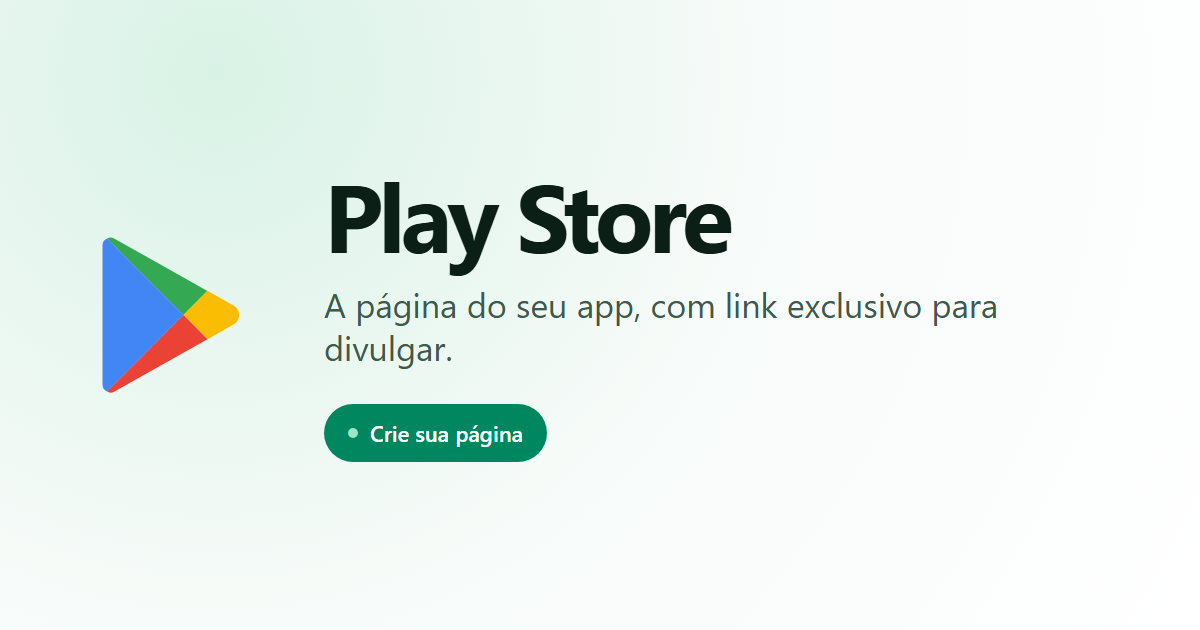
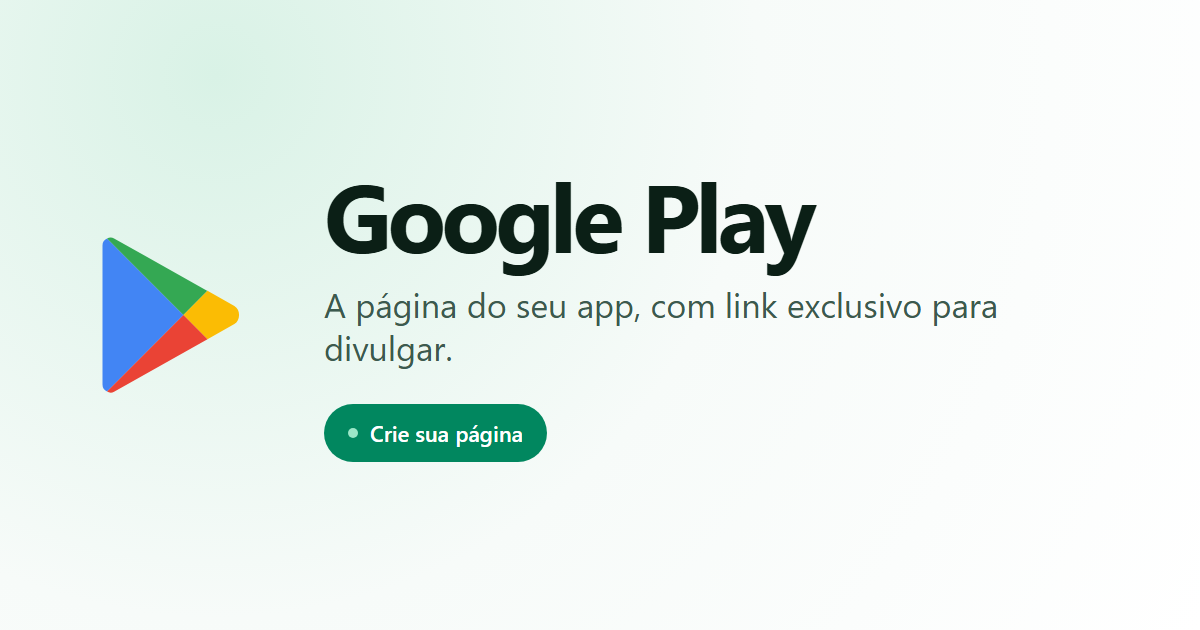
feat: google play com avaliacao padrao 4.6 e 8 comentarios

Changed region(s): [[0.2467, 0.2714, 0.6783, 0.4524]]

diff --git a/src/routes/_store/$slug.tsx b/src/routes/_store/$slug.tsx
@@ -4,6 +4,7 @@ import { AppIcon } from '@/components/store/app-icon'
 import { DeviceNote, InstallButton } from '@/components/store/app-actions'
 import { Stars } from '@/components/store/stars'
 import { getAppDetail } from '@/lib/apps.functions'
+import { getDefaultReviews } from '@/lib/default-reviews'
 import { DEFAULT_OG_IMAGE, SITE_NAME, SITE_URL, ogImageFor } from '@/lib/seo'
 import type { AppDetail } from '@/lib/types'
 import { cn, formatCount } from '@/lib/utils'
@@ -117,10 +118,8 @@ function ratingLabel(value: number) {
 
 function AppDetailPage() {
   const app: AppDetail = Route.useLoaderData()
-  const { user } = Route.useRouteContext()
-  const isOwner = Boolean(user && app.submittedBy === user.id)
-  const isPending = app.status !== 'published'
-  const totalReviews = app.reviewCount || app.reviews.length
+  const reviews = app.reviews.length > 0 ? app.reviews : getDefaultReviews()
+  const totalReviews = app.reviewCount || reviews.length
   const counts = [1, 2, 3, 4, 5].map(
     (star) => app.distribution[star as 1 | 2 | 3 | 4 | 5] ?? 0,
   )
@@ -160,14 +159,6 @@ function AppDetailPage() {
           </p>
         </div>
       </header>
-
-      {isOwner ? (
-        <p className="mt-4 text-xs text-muted-foreground">
-          {isPending
-            ? 'Sua página está em análise.'
-            : 'Sua página está publicada.'}
-        </p>
-      ) : null}
 
       <div className="mt-5 grid grid-cols-3 divide-x divide-border border-y border-border">
         <div className="flex flex-col items-center justify-center px-2 py-4 text-center">
@@ -242,9 +233,9 @@ function AppDetailPage() {
           </div>
         </div>
 
-        {app.reviews.length > 0 ? (
+        {reviews.length > 0 ? (
           <div className="mt-4 divide-y divide-border border-t border-border">
-            {app.reviews.map((review) => (
+            {reviews.map((review) => (
               <div key={review.id} className="py-5">
                 <div className="flex items-center gap-3">
                   <span
@@ -289,11 +280,7 @@ function AppDetailPage() {
               </div>
             ))}
           </div>
-        ) : (
-          <p className="mt-6 text-sm text-muted-foreground">
-            Ainda não há avaliações.
-          </p>
-        )}
+        ) : null}
       </section>
 
       <section className="mt-6 border-t border-border pt-6">

diff --git a/src/lib/apps.functions.ts b/src/lib/apps.functions.ts
@@ -108,6 +108,18 @@ function normalizeDownloads(value: number | null | undefined) {
   return Math.max(0, Math.floor(Number(value)))
 }
 
+function normalizeRating(value: number | null | undefined) {
+  const rating = Number(value)
+  if (!Number.isFinite(rating)) return 4.6
+  return Math.round(Math.min(5, Math.max(0, rating)) * 10) / 10
+}
+
+function normalizeReviewCount(value: number | null | undefined) {
+  const count = Number(value)
+  if (!Number.isFinite(count)) return 100000
+  return Math.max(0, Math.floor(count))
+}
+
 function slugify(value: string) {
   return (
     value
@@ -254,6 +266,22 @@ export const getAppDetail = createServerFn({ method: 'GET' })
       distribution[key] += 1
     }
 
+    if (reviewRows.length === 0 && row.reviewCount > 0) {
+      const total = row.reviewCount
+      distribution[5] = Math.round(total * 0.82)
+      distribution[4] = Math.round(total * 0.12)
+      distribution[3] = Math.round(total * 0.04)
+      distribution[2] = Math.round(total * 0.015)
+      distribution[1] = Math.max(
+        0,
+        total -
+          distribution[5] -
+          distribution[4] -
+          distribution[3] -
+          distribution[2],
+      )
+    }
+
     return {
       ...toCatalogApp(row),
       description: row.description,
@@ -349,6 +377,8 @@ export const submitApp = createServerFn({ method: 'POST' })
       fileName: normalizeText(data.fileName),
       fileSize: data.fileSize,
       downloads: normalizeDownloads(data.downloads),
+      rating: 4.6,
+      reviewCount: 100000,
       status: 'published',
       submittedBy: session.user.id,
     })
@@ -577,6 +607,8 @@ async function persistApp(
     fileName: normalizeText(data.fileName),
     fileSize: data.fileSize,
     downloads: normalizeDownloads(data.downloads),
+    rating: normalizeRating(data.rating),
+    reviewCount: normalizeReviewCount(data.reviewCount),
     status: data.status ?? 'published',
     featured: data.featured ?? false,
   }

diff --git a/src/lib/demo-data.ts b/src/lib/demo-data.ts
@@ -265,25 +265,25 @@ export function getDemoAppBySlug(slug: string): AppDetail | null {
   if (!app) return null
 
   const reviews = demoReviews[slug] ?? []
+  const reviewCount = 100000
   const distribution = { 1: 0, 2: 0, 3: 0, 4: 0, 5: 0 }
-  if (reviews.length > 0) {
-    const reviewCount = app.reviewCount || reviews.length
-    distribution[5] = Math.round(reviewCount * 0.82)
-    distribution[4] = Math.round(reviewCount * 0.12)
-    distribution[3] = Math.round(reviewCount * 0.04)
-    distribution[2] = Math.round(reviewCount * 0.015)
-    distribution[1] = Math.max(
-      0,
-      reviewCount -
-        distribution[5] -
-        distribution[4] -
-        distribution[3] -
-        distribution[2],
-    )
-  }
+  distribution[5] = Math.round(reviewCount * 0.82)
+  distribution[4] = Math.round(reviewCount * 0.12)
+  distribution[3] = Math.round(reviewCount * 0.04)
+  distribution[2] = Math.round(reviewCount * 0.015)
+  distribution[1] = Math.max(
+    0,
+    reviewCount -
+      distribution[5] -
+      distribution[4] -
+      distribution[3] -
+      distribution[2],
+  )
 
   return {
     ...app,
+    rating: 4.6,
+    reviewCount: 100000,
     status:
       getDemoAdminApps().find((item) => item.id === app.id)?.status ??
       app.status,
@@ -305,6 +305,8 @@ export function getDemoAppBySlug(slug: string): AppDetail | null {
 export function getDemoAdminApps(): AdminApp[] {
   return demoApps.map((app) => ({
     ...app,
+    rating: 4.6,
+    reviewCount: 100000,
     status: 'published',
     description: demoDescriptions[app.slug] ?? app.tagline,
     version: '4.3',
@@ -330,7 +332,7 @@ export const demoUsers: UserRow[] = [
   {
     id: 'demo-admin',
     name: 'Administrador Demo',
-    email: 'admin@demo.playstore',
+    email: 'admin@demo.googleplay',
     role: 'admin',
     banned: false,
     createdAt: '2026-09-01T12:00:00.000Z',

diff --git a/src/lib/default-reviews.ts b/src/lib/default-reviews.ts
@@ -1,0 +1,76 @@
+import type { ReviewItem } from './types'
+
+const day = 24 * 60 * 60 * 1000
+
+const templates = [
+  {
+    name: 'Ana Souza',
+    rating: 5,
+    comment: 'Muito bom! Interface simples e rápida. Recomendo.',
+    helpful: 42,
+    daysAgo: 3,
+  },
+  {
+    name: 'Bruno Martins',
+    rating: 5,
+    comment: 'Funciona perfeitamente no meu celular. Não travou até agora.',
+    helpful: 128,
+    daysAgo: 5,
+  },
+  {
+    name: 'Carla Mendes',
+    rating: 5,
+    comment: 'Ótimo app, atendeu exatamente o que eu precisava.',
+    helpful: 87,
+    daysAgo: 8,
+  },
+  {
+    name: 'Diego Alves',
+    rating: 4,
+    comment:
+      'Boa experiência no geral. Poderia ter mais opções, mas cumpre o que promete.',
+    helpful: 19,
+    daysAgo: 11,
+  },
+  {
+    name: 'Elisa Rocha',
+    rating: 5,
+    comment: 'Gostei bastante, fácil de usar e sem anúncios chatos.',
+    helpful: 64,
+    daysAgo: 14,
+  },
+  {
+    name: 'Felipe Costa',
+    rating: 4,
+    comment: 'Excelente! Já uso todos os dias.',
+    helpful: 33,
+    daysAgo: 18,
+  },
+  {
+    name: 'Gabriela Nunes',
+    rating: 5,
+    comment: 'App leve e bem organizado. Parabéns aos desenvolvedores.',
+    helpful: 51,
+    daysAgo: 23,
+  },
+  {
+    name: 'Henrique Lima',
+    rating: 4,
+    comment: 'Muito útil, salvou meu dia. Recomendo a todos.',
+    helpful: 21,
+    daysAgo: 29,
+  },
+]
+
+export function getDefaultReviews(): ReviewItem[] {
+  const now = Date.now()
+  return templates.map((template, index) => ({
+    id: `default-review-${index + 1}`,
+    rating: template.rating,
+    comment: template.comment,
+    createdAt: new Date(now - template.daysAgo * day).toISOString(),
+    helpfulCount: template.helpful,
+    userName: template.name,
+    userImage: null,
+  }))
+}

diff --git a/src/components/app-form.tsx b/src/components/app-form.tsx
@@ -58,6 +58,8 @@ function emptyForm(developer = ''): AppInput {
     fileName: '',
     fileSize: null,
     downloads: 0,
+    rating: 4.6,
+    reviewCount: 100000,
   }
 }
 
@@ -93,6 +95,8 @@ export function AppForm({
           fileName: initial.fileName ?? '',
           fileSize: initial.fileSize,
           downloads: initial.downloads,
+          rating: initial.rating,
+          reviewCount: initial.reviewCount,
         }
       : emptyForm(defaultDeveloper),
   )
@@ -482,6 +486,37 @@ export function AppForm({
                   ))}
                 </SelectContent>
               </Select>
+            </Field>
+            <Field label="Nota (0 a 5)">
+              <Input
+                type="number"
+                min={0}
+                max={5}
+                step={0.1}
+                inputMode="decimal"
+                value={form.rating}
+                onChange={(event) =>
+                  update(
+                    'rating',
+                    Math.min(5, Math.max(0, Number(event.target.value) || 0)),
+                  )
+                }
+              />
+            </Field>
+            <Field label="Avaliações">
+              <Input
+                type="number"
+                min={0}
+                step={1}
+                inputMode="numeric"
+                value={form.reviewCount}
+                onChange={(event) =>
+                  update(
+                    'reviewCount',
+                    Math.max(0, Math.floor(Number(event.target.value) || 0)),
+                  )
+                }
+              />
             </Field>
             <label className="flex items-center justify-between gap-3 self-end rounded-xl border border-border px-3 py-2.5">
               <span>

diff --git a/src/routes/__root.tsx b/src/routes/__root.tsx
@@ -19,7 +19,7 @@ export const Route = createRootRoute({
           'width=device-width, initial-scale=1, viewport-fit=cover, maximum-scale=5',
       },
       {
-        title: 'Play Store — a página do seu app',
+        title: 'Google Play — a página do seu app',
       },
       {
         name: 'description',
@@ -37,7 +37,10 @@ export const Route = createRootRoute({
       { property: 'og:site_name', content: SITE_NAME },
       { property: 'og:locale', content: 'pt_BR' },
       { property: 'og:image', content: DEFAULT_OG_IMAGE },
-      { property: 'og:image:alt', content: 'Play Store — a página do seu app' },
+      {
+        property: 'og:image:alt',
+        content: 'Google Play — a página do seu app',
+      },
       { name: 'twitter:card', content: 'summary_large_image' },
       { name: 'twitter:title', content: SITE_NAME },
       {

diff --git a/src/components/brand-logo.tsx b/src/components/brand-logo.tsx
@@ -41,12 +41,12 @@ export function BrandLogo({
     <Link
       to="/"
       className={cn('flex items-center gap-2', className)}
-      aria-label="Play Store — página inicial"
+      aria-label="Google Play — página inicial"
     >
       <PlayLogo />
       {showName ? (
         <span className="text-[21px] font-medium tracking-tight text-foreground/80">
-          Play Store
+          Google Play
         </span>
       ) : null}
     </Link>

diff --git a/scripts/seed.ts b/scripts/seed.ts
@@ -149,8 +149,8 @@ async function main() {
         iconUrl: null,
         bannerUrl: null,
         screenshots: [],
-        rating: app.rating,
-        reviewCount: app.reviewCount,
+        rating: 4.6,
+        reviewCount: 100000,
         downloads: app.downloads,
         featured: app.featured,
         status: 'published',

diff --git a/src/routes/admin.tsx b/src/routes/admin.tsx
@@ -16,7 +16,7 @@ export const Route = createFileRoute('/admin')({
   },
   head: () => ({
     meta: [
-      { title: 'Acesso administrativo — Play Store' },
+      { title: 'Acesso administrativo — Google Play' },
       { name: 'robots', content: 'noindex, nofollow' },
     ],
   }),

diff --git a/src/lib/auth.functions.ts b/src/lib/auth.functions.ts
@@ -21,7 +21,7 @@ export const demoSession = {
   user: {
     id: 'demo-admin',
     name: 'Administrador Demo',
-    email: 'admin@demo.playstore',
+    email: 'admin@demo.googleplay',
     emailVerified: true,
     image: null,
     role: 'admin',

diff --git a/src/lib/seo.ts b/src/lib/seo.ts
@@ -1,4 +1,4 @@
-export const SITE_NAME = 'Play Store'
+export const SITE_NAME = 'Google Play'
 export const SITE_URL = 'https://play-download.serproid.workers.dev'
 export const DEFAULT_OG_IMAGE = `${SITE_URL}/og-default.png`
 

diff --git a/src/lib/types.ts b/src/lib/types.ts
@@ -75,6 +75,8 @@ export type AppInput = {
   fileName: string
   fileSize: number | null
   downloads: number
+  rating: number
+  reviewCount: number
 }
 
 export type AdminApp = CatalogApp & {
